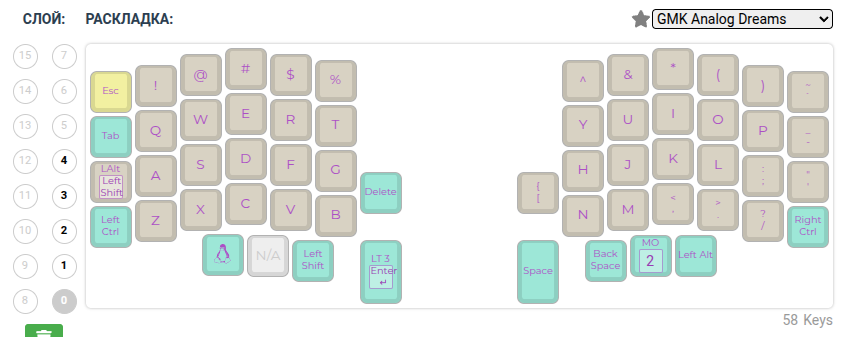
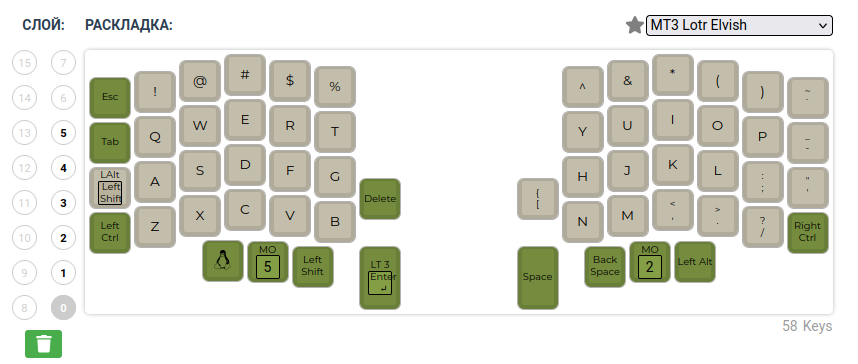
Обновлены каринки

diff --git a/README.md b/README.md
@@ -58,3 +58,5 @@ uv pip install qmk
 
 ![](keyboards/lily58/keymaps/druotoni/images/4.png)
 
+![](keyboards/lily58/keymaps/druotoni/images/5.png)
+
